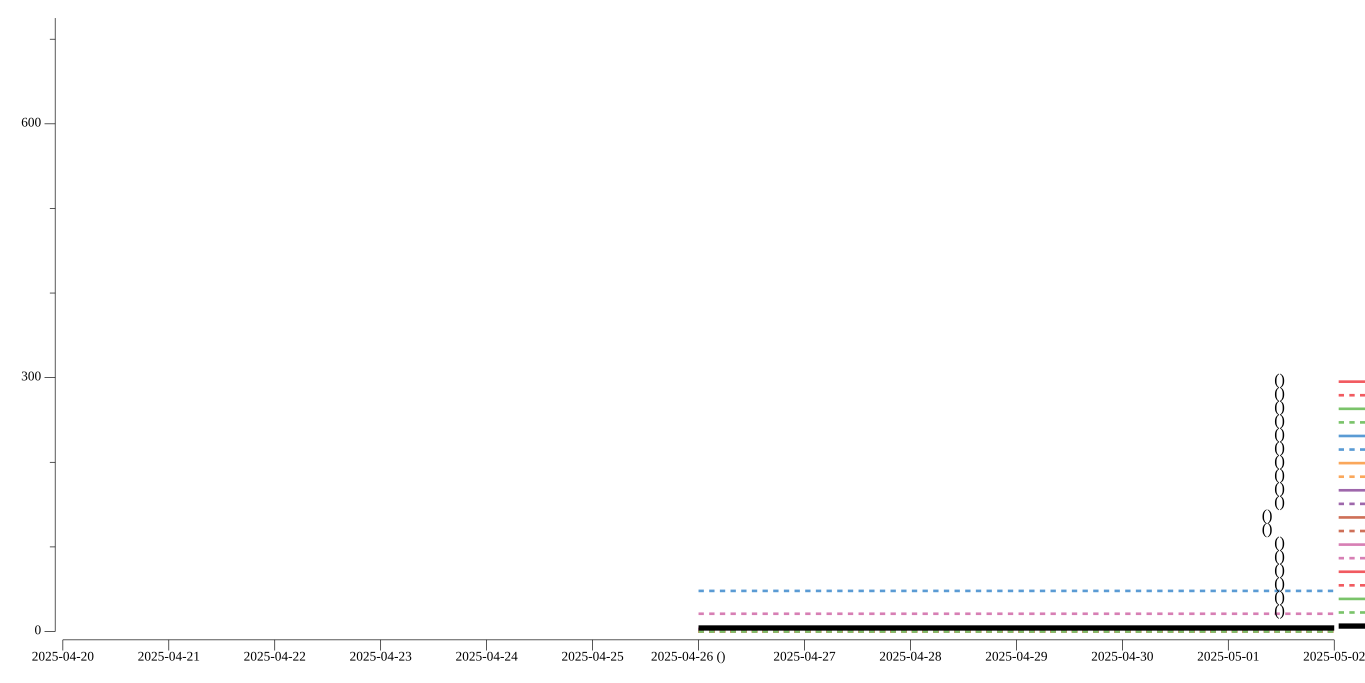
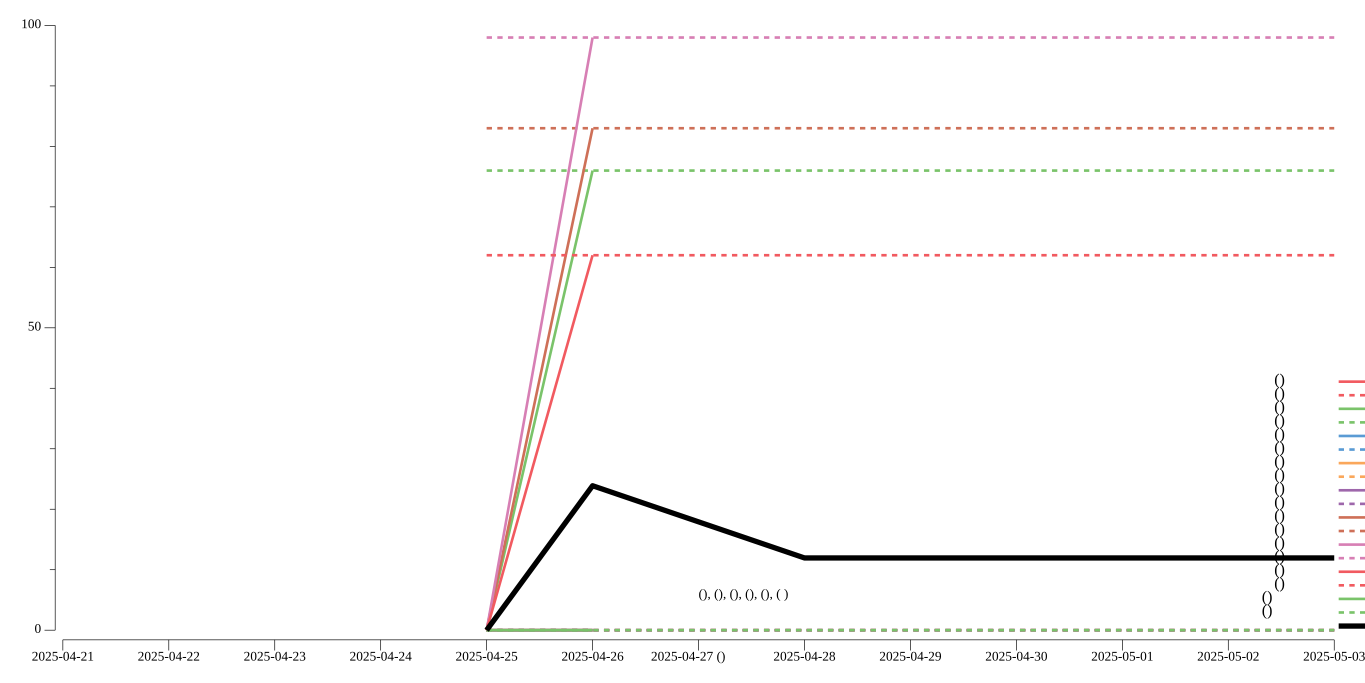
feat: add aggregate focus plotting functionality and update related methods
- Introduced PlotTimeSlotAverageFocusAggregatePNG function to calculate and plot average focus scores across time slots.
- Updated PlotTimeSlotAverageFocusPNG to reflect changes in data handling and improve clarity in graph titles.
- Modified SaveTimeSlotGraphs to utilize the new aggregate plotting function for saving average focus graphs.
- Added new images for April 26, 2025, in dailydata directories to support the updated plotting functionality.

diff --git a/internal/analyzer/analyzer.go b/internal/analyzer/analyzer.go
@@ -31,48 +31,69 @@ func PlotFocusTrendsAndRegression(data []common.FocusData) ([]byte, error) {
 	if len(data) == 0 {
 		return nil, fmt.Errorf("분석할 데이터가 없습니다")
 	}
-	// PreparePlotData logic inlined here
-	points := map[string]plotter.XYs{} // 카테고리별 실제 점 데이터
-	regressionLines := map[string]plotter.XYs{} // 카테고리별 회귀선 데이터
-	// 정규화된 데이터 준비 (MaxScore > 0인 날만)
-	normData := make([]common.FocusData, 0, len(data))
+
+	// 1. 모든 데이터에서 등장한 카테고리 동적 추출
+	categorySet := make(map[string]struct{})
 	for _, d := range data {
-		if d.MaxScore > 0 {
-			norm := common.FocusData{
-				Date:       d.Date,
-				TotalFocus: int(float64(d.TotalFocus) / float64(d.MaxScore) * 100.0),
-				MaxScore:   d.MaxScore,
-				Categories: map[string]int{},
-				TimeSlots:  d.TimeSlots,
-			}
-			for k, v := range d.Categories {
-				norm.Categories[k] = int(float64(v) / float64(d.MaxScore) * 100.0)
-			}
-			normData = append(normData, norm)
+		for cat := range d.Categories {
+			categorySet[cat] = struct{}{}
 		}
 	}
-	for _, cat := range common.Categories {
-		points[cat] = makeCategoryPoints(normData, cat) // 실제 점 생성
-		regressionLines[cat] = makeRegressionPoints(normData, cat) // 회귀선 생성
+	categories := make([]string, 0, len(categorySet))
+	for cat := range categorySet {
+		categories = append(categories, cat)
 	}
-	evalText := makeEvalText(normData) // 카테고리별 트렌드 평가 텍스트
-	watermark := makeWatermark() // 워터마크(날짜/시간)
 
-	// aggregateLine 계산: 각 카테고리별로 모든 일자의 평균 (0점 제외), MaxScore로 비율화
-	totalAverages := make([]float64, len(common.Categories))
+	// 2. 정규화된 데이터 준비 (카테고리별 MaxScore[cat] > 0인 날만)
+	normData := make([]common.FocusData, 0, len(data))
+	for _, d := range data {
+		norm := common.FocusData{
+			Date:       d.Date,
+			TotalFocus: d.TotalFocus,
+			MaxScore:   d.MaxScore,
+			Categories: map[string]int{},
+			TimeSlots:  d.TimeSlots,
+		}
+		for k, v := range d.Categories {
+			max, ok := d.MaxScore[k]
+			if ok && max > 0 {
+				norm.Categories[k] = int(float64(v) / float64(max) * 100.0)
+			} else {
+				norm.Categories[k] = 0
+			}
+		}
+		normData = append(normData, norm)
+	}
+
+	// 3. points, regressionLines 동적 카테고리로 생성
+	points := map[string]plotter.XYs{}
+	regressionLines := map[string]plotter.XYs{}
+	for _, cat := range categories {
+		points[cat] = makeCategoryPoints(normData, cat)
+		regressionLines[cat] = makeRegressionPoints(normData, cat)
+	}
+	evalText := makeEvalText(normData)
+	watermark := makeWatermark()
+
+	// 4. aggregateLine 계산: 동적 카테고리별로 모든 일자의 평균 (0점 제외), MaxScore로 비율화
+	totalAverages := make([]float64, len(categories))
 	totalFocus := 0.0
-	for i, cat := range common.Categories {
+	for i, cat := range categories {
 		sum := 0.0
 		count := 0.0
 		for _, d := range data {
-			if d.Categories == nil || d.MaxScore == 0 {
+			if d.Categories == nil || d.MaxScore == nil {
+				continue
+			}
+			max, ok := d.MaxScore[cat]
+			if !ok || max == 0 {
 				continue
 			}
 			v, ok := d.Categories[cat]
 			if !ok || v == 0 {
 				continue
 			}
-			sum += float64(v) / float64(d.MaxScore) * 100.0
+			sum += float64(v) / float64(max) * 100.0
 			count++
 		}
 		avg := 0.0
@@ -83,7 +104,7 @@ func PlotFocusTrendsAndRegression(data []common.FocusData) ([]byte, error) {
 		totalFocus += avg
 	}
 
-	aggregateLine := make(plotter.XYs, len(common.Categories))
+	aggregateLine := make(plotter.XYs, len(categories))
 	for i, avg := range totalAverages {
 		ratio := 0.0
 		if totalFocus > 0 {
@@ -93,7 +114,8 @@ func PlotFocusTrendsAndRegression(data []common.FocusData) ([]byte, error) {
 		aggregateLine[i].Y = ratio
 	}
 
-	return DrawFocusTrends(points, regressionLines, evalText, watermark, aggregateLine, normData)
+	// 5. DrawFocusTrends에 동적 카테고리 전달
+	return DrawFocusTrends(points, regressionLines, evalText, watermark, aggregateLine, normData, categories)
 }
 
 // PlotTimeSlotAverageFocusAggregatePNG: 전체 데이터를 합산하여 단일 평균 라인 그래프를 그림

diff --git a/internal/exporter/exporter.go b/internal/exporter/exporter.go
@@ -12,19 +12,13 @@ import (
 	sheetsv4 "google.golang.org/api/sheets/v4"
 )
 
-// ExtractAndPush: 집중도 데이터 추출~저장~git push까지 전체 export orchestration 함수
-// - ctx: context.Context
-// - sheetsSrv: Google Sheets API 서비스
-// - driveSrv: Google Drive API 서비스
-// - folderID: 연도별 스프레드시트가 있는 구글 드라이브 폴더 ID
-// - repoPath: gitbook 저장소 경로
-// - now: 기준 시각 (보통 현재)
-// 반환: 에러 (없으면 nil)
-func ExtractAndPush(ctx context.Context, sheetsSrv *sheetsv4.Service, driveSrv *drivev3.Service, folderID, repoPath string, repoDownloadPath string, now time.Time) error {
+// Extract: 집중도 데이터 추출~저장~그래프 생성까지 수행, push는 하지 않음
+// 반환: dateStr, jsonRelPath, commitMsg, error
+func Extract(ctx context.Context, sheetsSrv *sheetsv4.Service, driveSrv *drivev3.Service, folderID, repoPath string, repoDownloadPath string, now time.Time) (string, string, string, error) {
 	// 1. 한국 시간으로 변환
 	loc, err := time.LoadLocation("Asia/Seoul")
 	if err != nil {
-		return fmt.Errorf("Asia/Seoul 타임존 로드 실패: %w", err)
+		return "", "", "", fmt.Errorf("Asia/Seoul 타임존 로드 실패: %w", err)
 	}
 	now = now.In(loc)
 
@@ -35,26 +29,26 @@ func ExtractAndPush(ctx context.Context, sheetsSrv *sheetsv4.Service, driveSrv *
 	// 3. Google Sheets에서 해당 연도 스프레드시트 ID 찾기
 	spreadsheetID, err := sheets.FindSpreadsheetIDByYear(ctx, driveSrv, folderID, year)
 	if err != nil {
-		return fmt.Errorf("스프레드시트 ID 검색 실패: %w", err)
+		return "", "", "", fmt.Errorf("스프레드시트 ID 검색 실패: %w", err)
 	}
 
 	// 4. 어제 날짜의 집중도 데이터 추출
 	data, dateStr, err := sheets.ExtractDailyFocusData(sheetsSrv, spreadsheetID, year, int(month), day)
 	if err != nil {
-		return fmt.Errorf("시트 데이터 파싱 실패: %w", err)
+		return "", "", "", fmt.Errorf("시트 데이터 파싱 실패: %w", err)
 	}
 
 	// 5. JSON 파일로 저장
 	jsonRelPath := filepath.Join("dailydata", "raw", dateStr+".json")
 	commitMsg := "자동 집중도 데이터: " + dateStr
 	if err := SaveJSON(data, jsonRelPath); err != nil {
-		return err
+		return "", "", "", err
 	}
 
 	// 6. 최근 7일치 데이터 로드
 	allData, err := LoadRecentFocusData(filepath.Join("dailydata", "raw"), 7)
 	if err != nil {
-		return err
+		return "", "", "", err
 	}
 
 	// 7. 그래프 이미지 생성 (gitbook, dailydata)
@@ -62,16 +56,21 @@ func ExtractAndPush(ctx context.Context, sheetsSrv *sheetsv4.Service, driveSrv *
 		graphGitbook := filepath.Join(repoPath, repoDownloadPath, "graph.png")
 		graphDaily := filepath.Join("dailydata", "images", dateStr+".png")
 		if err := GenerateGraphFile(allData, graphGitbook, graphDaily); err != nil {
-			return err
+			return "", "", "", err
 		}
 		// 일자별 시간대별 몰입 그래프 저장
 		timeslotGitbook := filepath.Join(repoPath, repoDownloadPath, "timeslot-images.png")
 		timeslotDaily := filepath.Join("dailydata", "timeslot-images", dateStr+".png")
 		if err := SaveTimeSlotGraphs(allData, timeslotGitbook, timeslotDaily); err != nil {
-			return err
+			return "", "", "", err
 		}
 	}
 
+	return dateStr, jsonRelPath, commitMsg, nil
+}
+
+// Push: gitbook repo checkout, push, main repo push
+func Push(repoPath, dateStr, jsonRelPath, commitMsg string) error {
 	// 8. gitbook repo main 브랜치로 checkout
 	exec.Command("git", "-C", repoPath, "checkout", "main").Run()
 

diff --git a/internal/analyzer/plot.go b/internal/analyzer/plot.go
@@ -177,15 +177,16 @@ func PlotTimeSlotAverageFocusPNG(data []common.FocusData) ([]byte, error) {
 	return buf.Bytes(), nil
 }
 
-// DrawFocusTrends: 준비된 데이터(points, regressionLines, evalText, watermark, aggregateLine)로 그림만 그림
+// DrawFocusTrends: 준비된 데이터(points, regressionLines, evalText, watermark, aggregateLine, categories)로 그림만 그림
 // - points: 카테고리별 실제 점 데이터
 // - regressionLines: 카테고리별 회귀선 데이터
 // - evalText: 평가 텍스트
 // - watermark: 워터마크(날짜/시간)
 // - aggregateLine: 전체 평균 라인 (없으면 nil)
 // - data: 추가 데이터 배열
+// - categories: 동적으로 추출된 카테고리 목록
 // 반환: PNG 이미지 []byte, 에러
-func DrawFocusTrends(points, regressionLines map[string]plotter.XYs, evalText, watermark string, aggregateLine plotter.XYs, data []common.FocusData) ([]byte, error) {
+func DrawFocusTrends(points, regressionLines map[string]plotter.XYs, evalText, watermark string, aggregateLine plotter.XYs, data []common.FocusData, categories []string) ([]byte, error) {
 	p := plot.New()
 	p.Title.Text = "카테고리별 트렌드 및 회귀선"
 	p.X.Label.Text = "일자"
@@ -217,7 +218,8 @@ func DrawFocusTrends(points, regressionLines map[string]plotter.XYs, evalText, w
 
 	colors := plotutil.SoftColors
 	colorIdx := 0
-	for cat, pts := range points {
+	for _, cat := range categories {
+		pts := points[cat]
 		// pts의 X를 실제 일자 기반으로 재설정 (data[i].Date 사용)
 		newPts := make(plotter.XYs, 0, len(pts))
 		for i, pt := range pts {
@@ -347,8 +349,16 @@ func DrawFocusTrends(points, regressionLines map[string]plotter.XYs, evalText, w
 		}
 	}
 
+	// 색상 설명 추가
+	legendDesc := "빨간색(업무), 파란색(학습), 초록색(취미), 보라색(수면), 주황색(이동), 검정(전체 평균)"
+	labels, _ := plotter.NewLabels(plotter.XYLabels{
+		XYs:    []plotter.XY{{X: 6, Y: 5}},
+		Labels: []string{legendDesc},
+	})
+	p.Add(labels)
+
 	p.Y.Min = 0
-	p.Y.Max = 725
+	p.Y.Max = 100
 
 	buf := &bytes.Buffer{}
 	w, err := p.WriterTo(vg.Points(1024), vg.Points(512), "png")

diff --git a/cmd/focus/main.go b/cmd/focus/main.go
@@ -15,11 +15,28 @@ import (
 func main() {
 	config.LoadEnv()
 
-	if len(os.Args) > 1 && os.Args[1] == "extract" {
-		extract()
-		return
+	if len(os.Args) > 1 {
+		switch os.Args[1] {
+		case "extract":
+			extract()
+			return
+		case "push":
+			if len(os.Args) < 5 {
+				fmt.Println("Usage: focus push <dateStr> <jsonRelPath> <commitMsg>")
+				return
+			}
+			repoPath := config.Envs.GitbookRepoPath
+			dateStr := os.Args[2]
+			jsonRelPath := os.Args[3]
+			commitMsg := os.Args[4]
+			if err := exporter.Push(repoPath, dateStr, jsonRelPath, commitMsg); err != nil {
+				log.Fatalf("Push 실패: %v", err)
+			}
+			fmt.Println("Push 완료!")
+			return
+		}
 	}
-	fmt.Println("Usage: focus extract | analyze")
+	fmt.Println("Usage: focus extract | push <dateStr> <jsonRelPath> <commitMsg>")
 }
 
 func extract() {
@@ -35,8 +52,12 @@ func extract() {
 	if folderID == "" || repoPath == "" || repoDownloadPath == "" {
 		log.Fatal("GSHEETS_PARENT_FOLDER_ID, REPO_DOWNLOAD_PATH 환경변수를 설정하세요.")
 	}
-	if err := exporter.ExtractAndPush(ctx, sheetsSrv, driveSrv, folderID, repoPath, repoDownloadPath, time.Now()); err != nil {
-		log.Fatalf("ExtractAndPush 실패: %v", err)
+	dateStr, jsonRelPath, commitMsg, err := exporter.Extract(ctx, sheetsSrv, driveSrv, folderID, repoPath, repoDownloadPath, time.Now())
+	if err != nil {
+		log.Fatalf("Extract 실패: %v", err)
 	}
-	fmt.Println("완료! Push 완료.")
+	fmt.Printf("추출 완료! dateStr: %s, jsonRelPath: %s, commitMsg: %s\n", dateStr, jsonRelPath, commitMsg)
+
+	// 파일 저장 대신 표준 출력으로 결과만 출력 (CI/CD 연동)
+	fmt.Printf("%s|%s|%s\n", dateStr, jsonRelPath, commitMsg)
 }

diff --git a/internal/analyzer/aggregate.go b/internal/analyzer/aggregate.go
@@ -13,8 +13,10 @@ import (
 // 반환: FocusData (카테고리별 합계, 총점, 시간대별 점수)
 func AnalyzeFocus(labels []string, scores []int) common.FocusData {
 	categories := make(map[string]int) // 카테고리별 점수 합계
+	maxScore := make(map[string]int)   // 카테고리별 최대 점수
 	for _, cat := range common.Categories {
 		categories[cat] = 0
+		maxScore[cat] = 0
 	}
 	totalFocus := 0 // 하루 총 몰입 점수
 	timeSlots := make(map[string]int) // 시간대별 점수 합계 (ex: "09:30" -> 40)
@@ -25,6 +27,7 @@ func AnalyzeFocus(labels []string, scores []int) common.FocusData {
 		}
 		if _, ok := categories[label]; ok {
 			categories[label] += score // 카테고리별 합산
+			maxScore[label] += 5       // 해당 카테고리 row 수 * 5
 			if label != "이동" {
 				totalFocus += score // "이동" 제외 총점
 			}
@@ -35,7 +38,6 @@ func AnalyzeFocus(labels []string, scores []int) common.FocusData {
 		timeKey := fmt.Sprintf("%02d:%02d", hour, min)
 		timeSlots[timeKey] += score
 	}
-	maxScore := len(labels) * 5
 	return common.FocusData{
 		Categories: categories,
 		TotalFocus: totalFocus,

diff --git a/internal/common/types.go b/internal/common/types.go
@@ -1,9 +1,9 @@
 package common
 
 type FocusData struct {
-	Date       string         `json:"date"`
-	TotalFocus int            `json:"totalFocus"`
-	MaxScore   int            `json:"maxScore"`
-	Categories map[string]int `json:"categories"`
-	TimeSlots  map[string]int `json:"timeSlots"`
+	Date       string            `json:"date"`
+	TotalFocus int               `json:"totalFocus"`
+	MaxScore   map[string]int    `json:"maxScore"`
+	Categories map[string]int    `json:"categories"`
+	TimeSlots  map[string]int    `json:"timeSlots"`
 }

diff --git a/internal/sheets/sheets.go b/internal/sheets/sheets.go
@@ -147,3 +147,4 @@ func ExtractDailyFocusData(sheetsSrv *sheets.Service, spreadsheetID string, year
 	sheetsAPI := &RealSheetsAPI{srv: sheetsSrv}
 	return ExtractDailyFocusDataAPI(sheetsAPI, spreadsheetID, year, month, day)
 }
+ 

diff --git a/internal/analyzer/analyzer_test.go b/internal/analyzer/analyzer_test.go
@@ -98,3 +98,4 @@ func TestPlotFocusTrendsAndRegression(t *testing.T) {
 	// 	t.Errorf("PNG 파일 저장 실패: %v", err)
 	// }
 }
+ 

diff --git a/internal/sheets/sheet_create.go b/internal/sheets/sheet_create.go
@@ -70,3 +70,4 @@ func CreateYearlySheet(sheetsSrv *sheets.Service, driveSrv *drive.Service, title
 	}
 	return spreadsheetID, nil
 }
+ 

diff --git a/internal/sheets/sheet_init.go b/internal/sheets/sheet_init.go
@@ -125,3 +125,4 @@ func initSheetDataFrom(sheetsSrv *sheets.Service, spreadsheetID, sheetName strin
 	}
 	return nil
 }
+ 

diff --git a/internal/sheets/sheet_style.go b/internal/sheets/sheet_style.go
@@ -164,3 +164,4 @@ func applySheetStyles(sheetsSrv *sheets.Service, spreadsheetID, sheetName string
 	}
 	return nil
 }
+ 

diff --git a/internal/sheets/upgrade.go b/internal/sheets/upgrade.go
@@ -31,3 +31,4 @@ func UpgradeSheetToNewFormatFrom(sheetsSrv *sheets.Service, spreadsheetID string
 	}
 	return nil
 }
+ 
